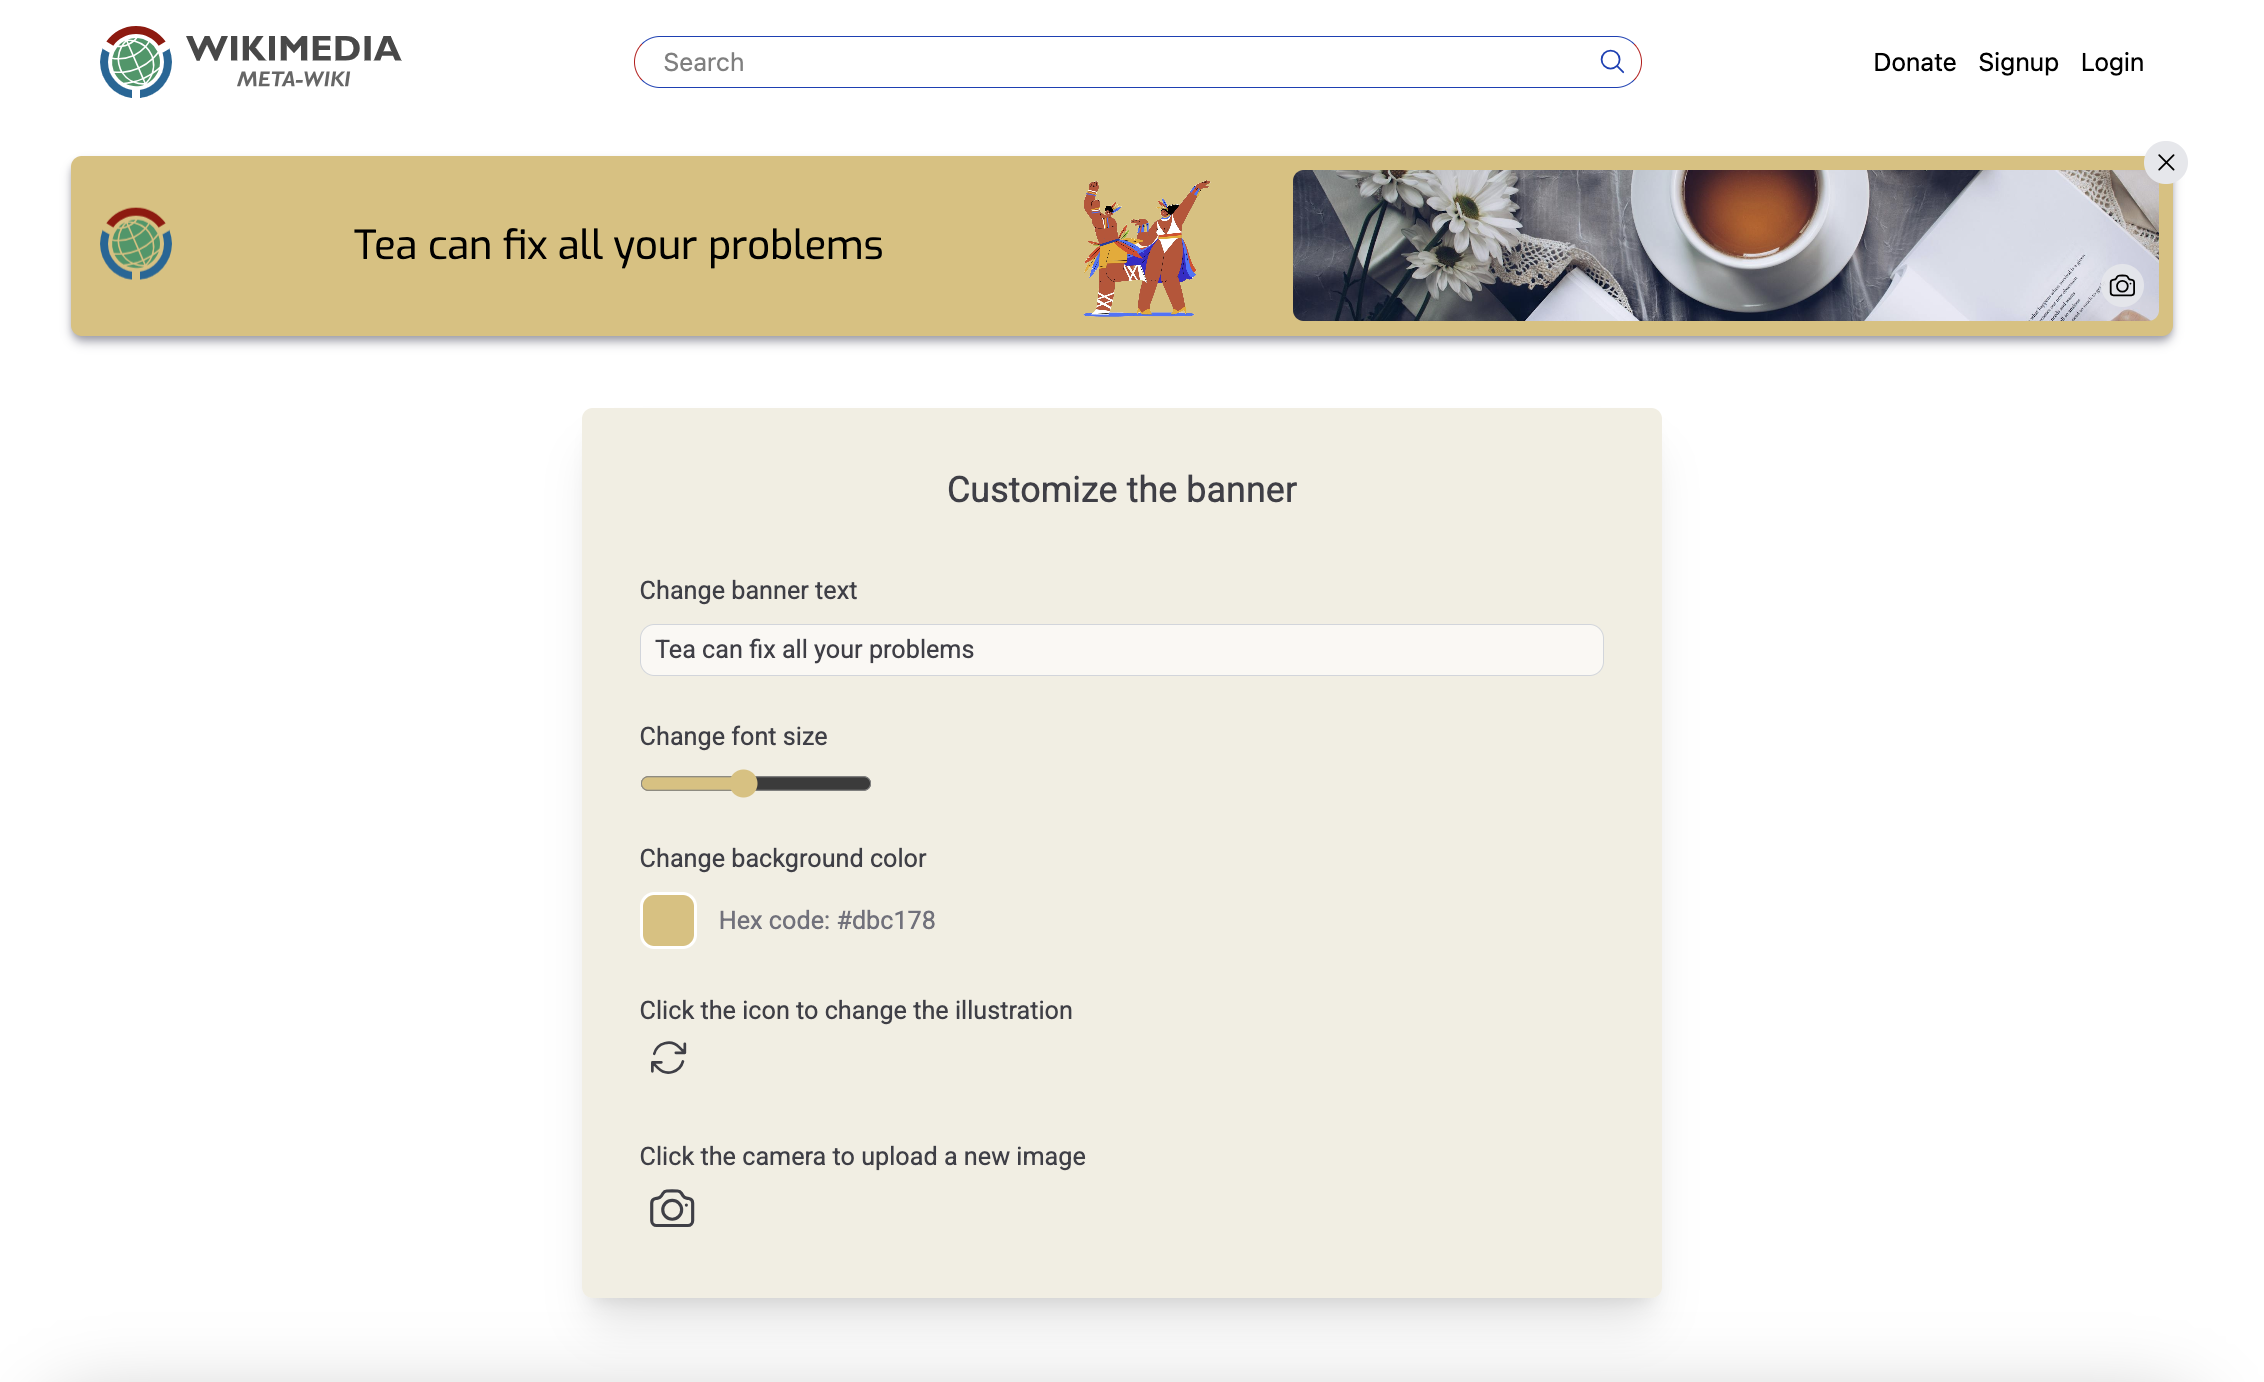
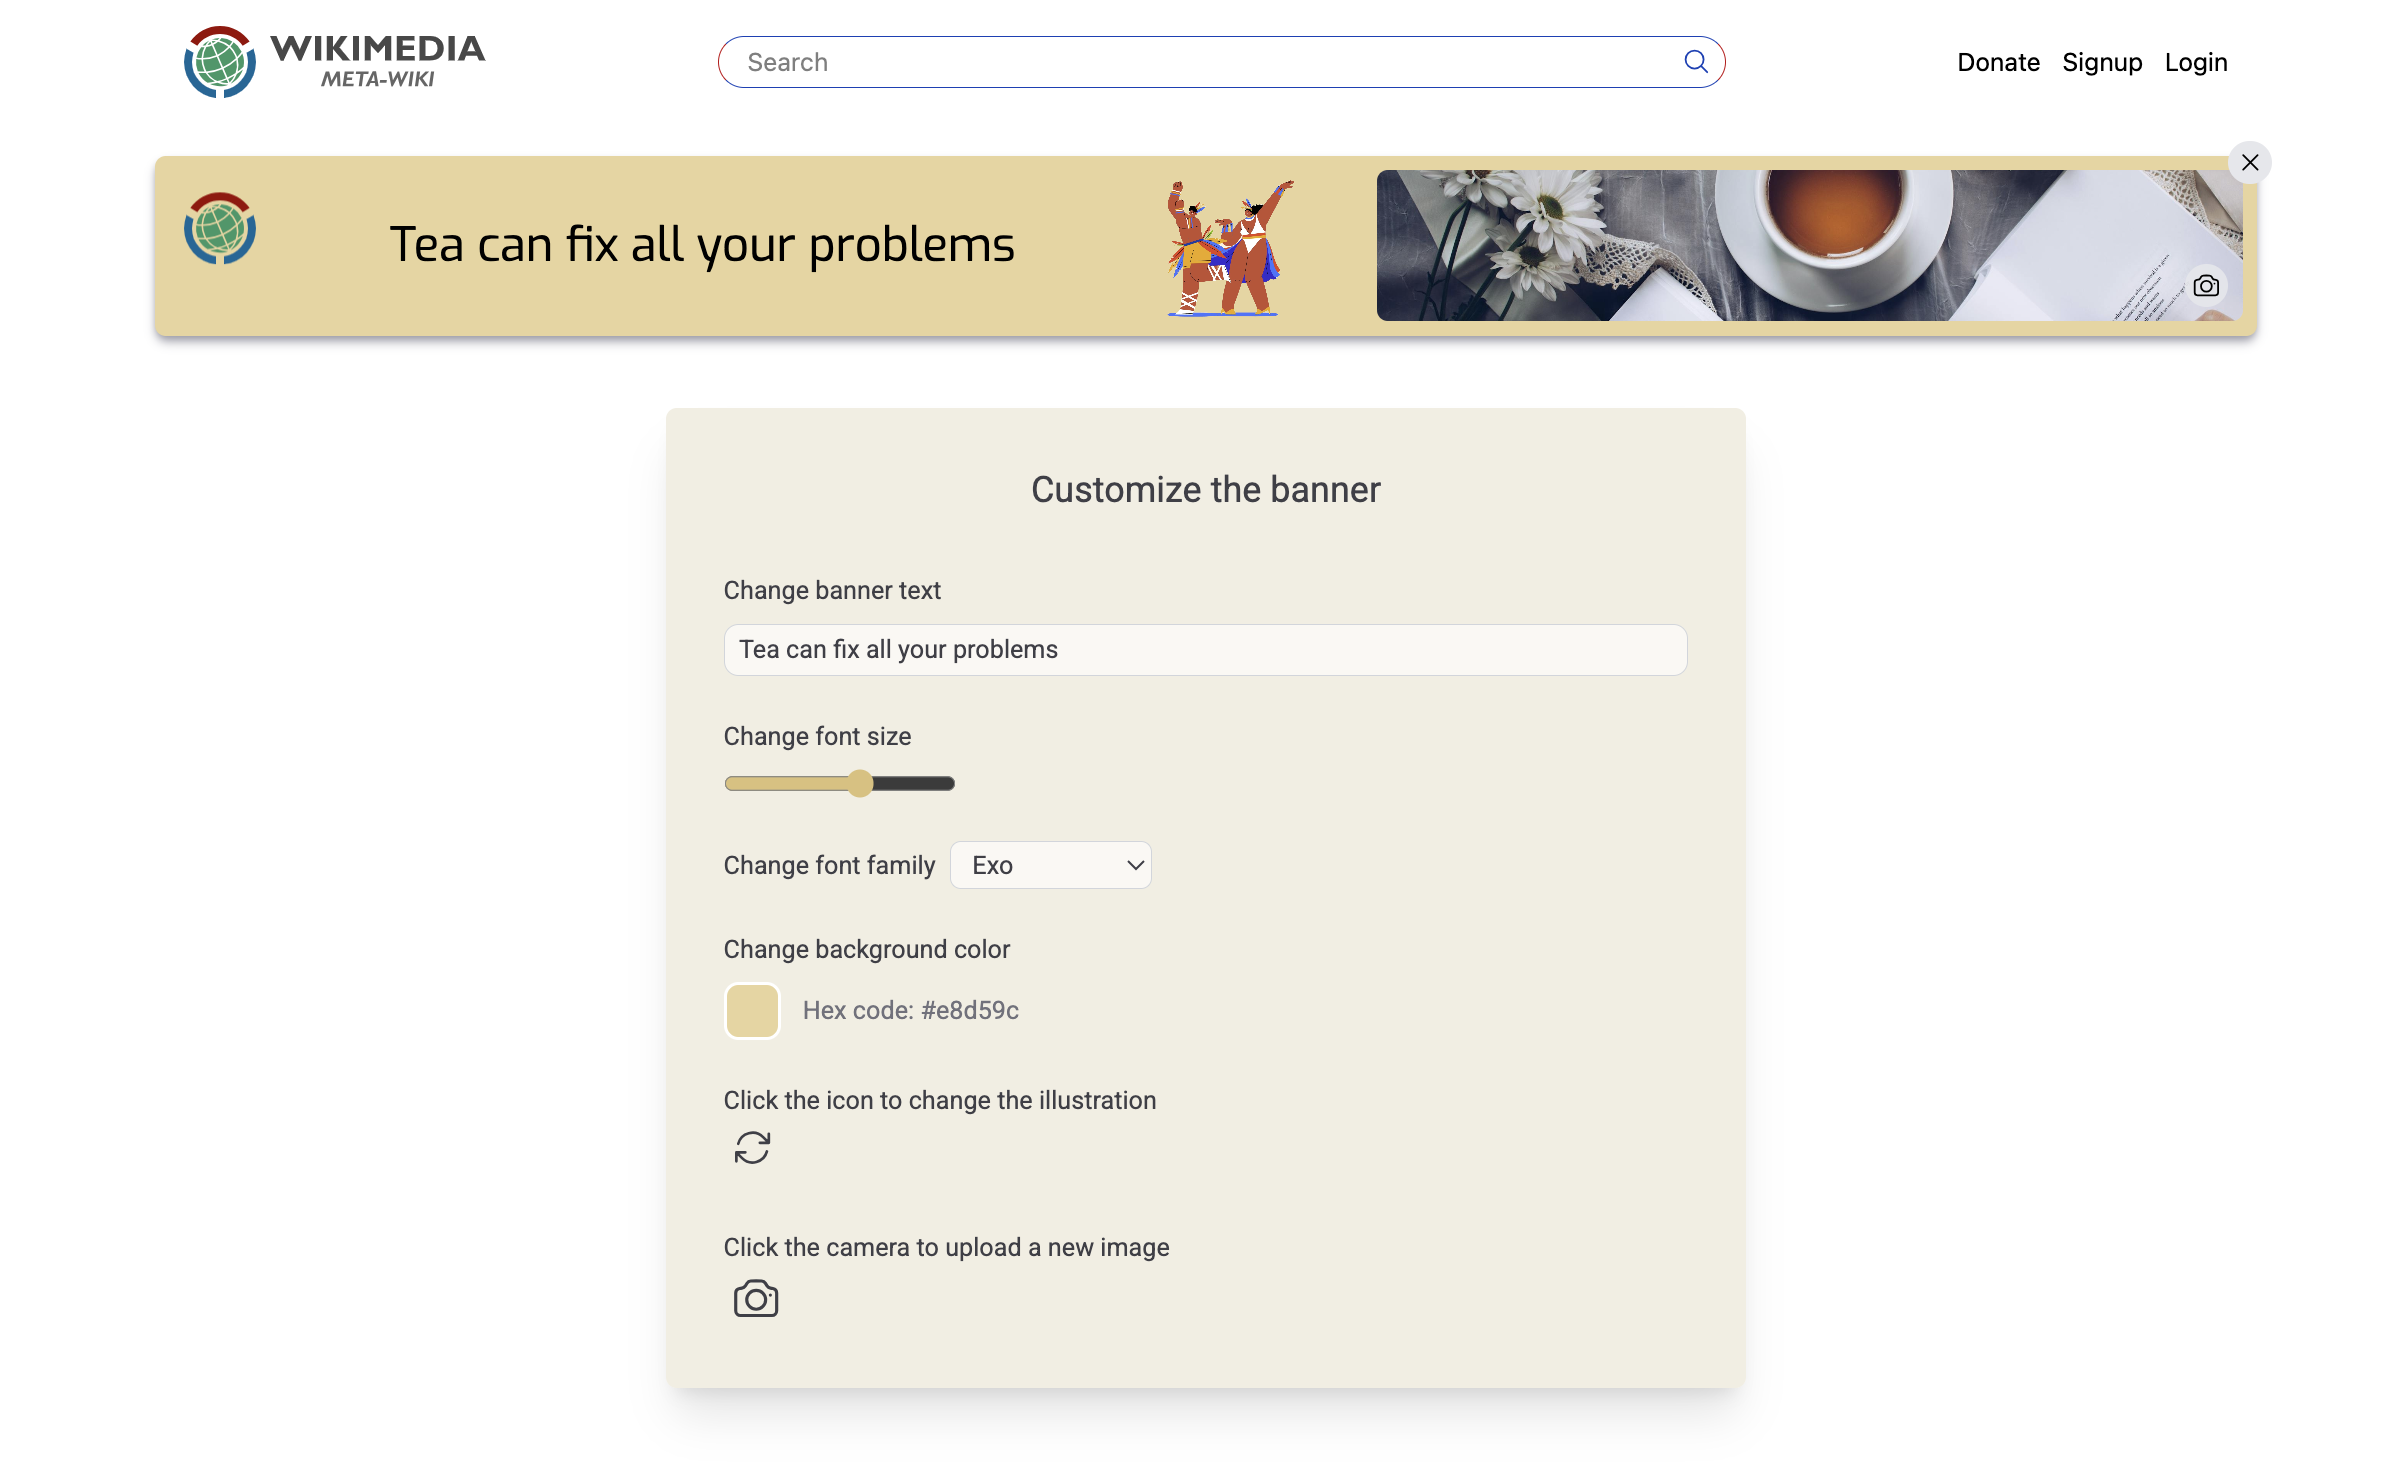
Update: README documentation

diff --git a/README.md b/README.md
@@ -9,10 +9,14 @@ In the current phase, the project focuses on creating a simple web page that all
 
 ### Libraries and Frameworks used for the project:
 
-- Vitest as testing framework
-- ReactJS for frontend
-- Tailwind for css styling
-- React colorful for color picker functionality
+- ![Static Badge](https://img.shields.io/badge/vitest-vitesr?style=plastic&logo=vitest&logoColor=white&color=yellow) Vitest as testing framework
+
+- ![Static Badge](https://img.shields.io/badge/react-React?style=plastic&logo=react&logoColor=white&color=blue) ReactJS for frontend
+
+- ![Static Badge](https://img.shields.io/badge/tailwind-tailwind?style=plastic&logo=tailwindcss&logoColor=blue&color=white)
+  Tailwind for css styling
+- ![Static Badge](https://img.shields.io/badge/react_colorful-react_colorful?style=plastic&logo=react&logoColor=blue&color=white)
+  React colorful for color picker functionality
 
 ### Project consists of two main elements:
 
@@ -26,6 +30,8 @@ The following functionalities are available through form controls:
 - **Change banner text:** Modify the banner text using the first input field in the form.
 
 - **Change font size:** Change the font size of banner text using the input range slider.
+
+- **Change font family:** Change the font family of banner text using the dropdown menu.
 
 - **Change background color:** The second form element allows changing the background color. It also shows the hex code for the selected color.
 
@@ -49,5 +55,31 @@ The page is fully responsive including the navbar, form, images, icons, fonts, a
 ### Project proposition 🎨
 
 Currently the project uses pre-existing illustrations from different artists due to time constraints. However, I am great at making vector illustrations and would be happy to create custom illustrations if needed for the larger project.
+
+### Setup and Installation
+
+1. **Clone the repository**
+
+```bash
+git clone https://github.com/harneetsahi/wikimedia-bannerProject.git
+```
+
+2. **Install dependencies**
+
+```
+npm install
+```
+
+3. **Run the development server**
+
+```
+npm run dev
+```
+
+4. **Run tests**
+
+```
+npm run test
+```
 
 ---
